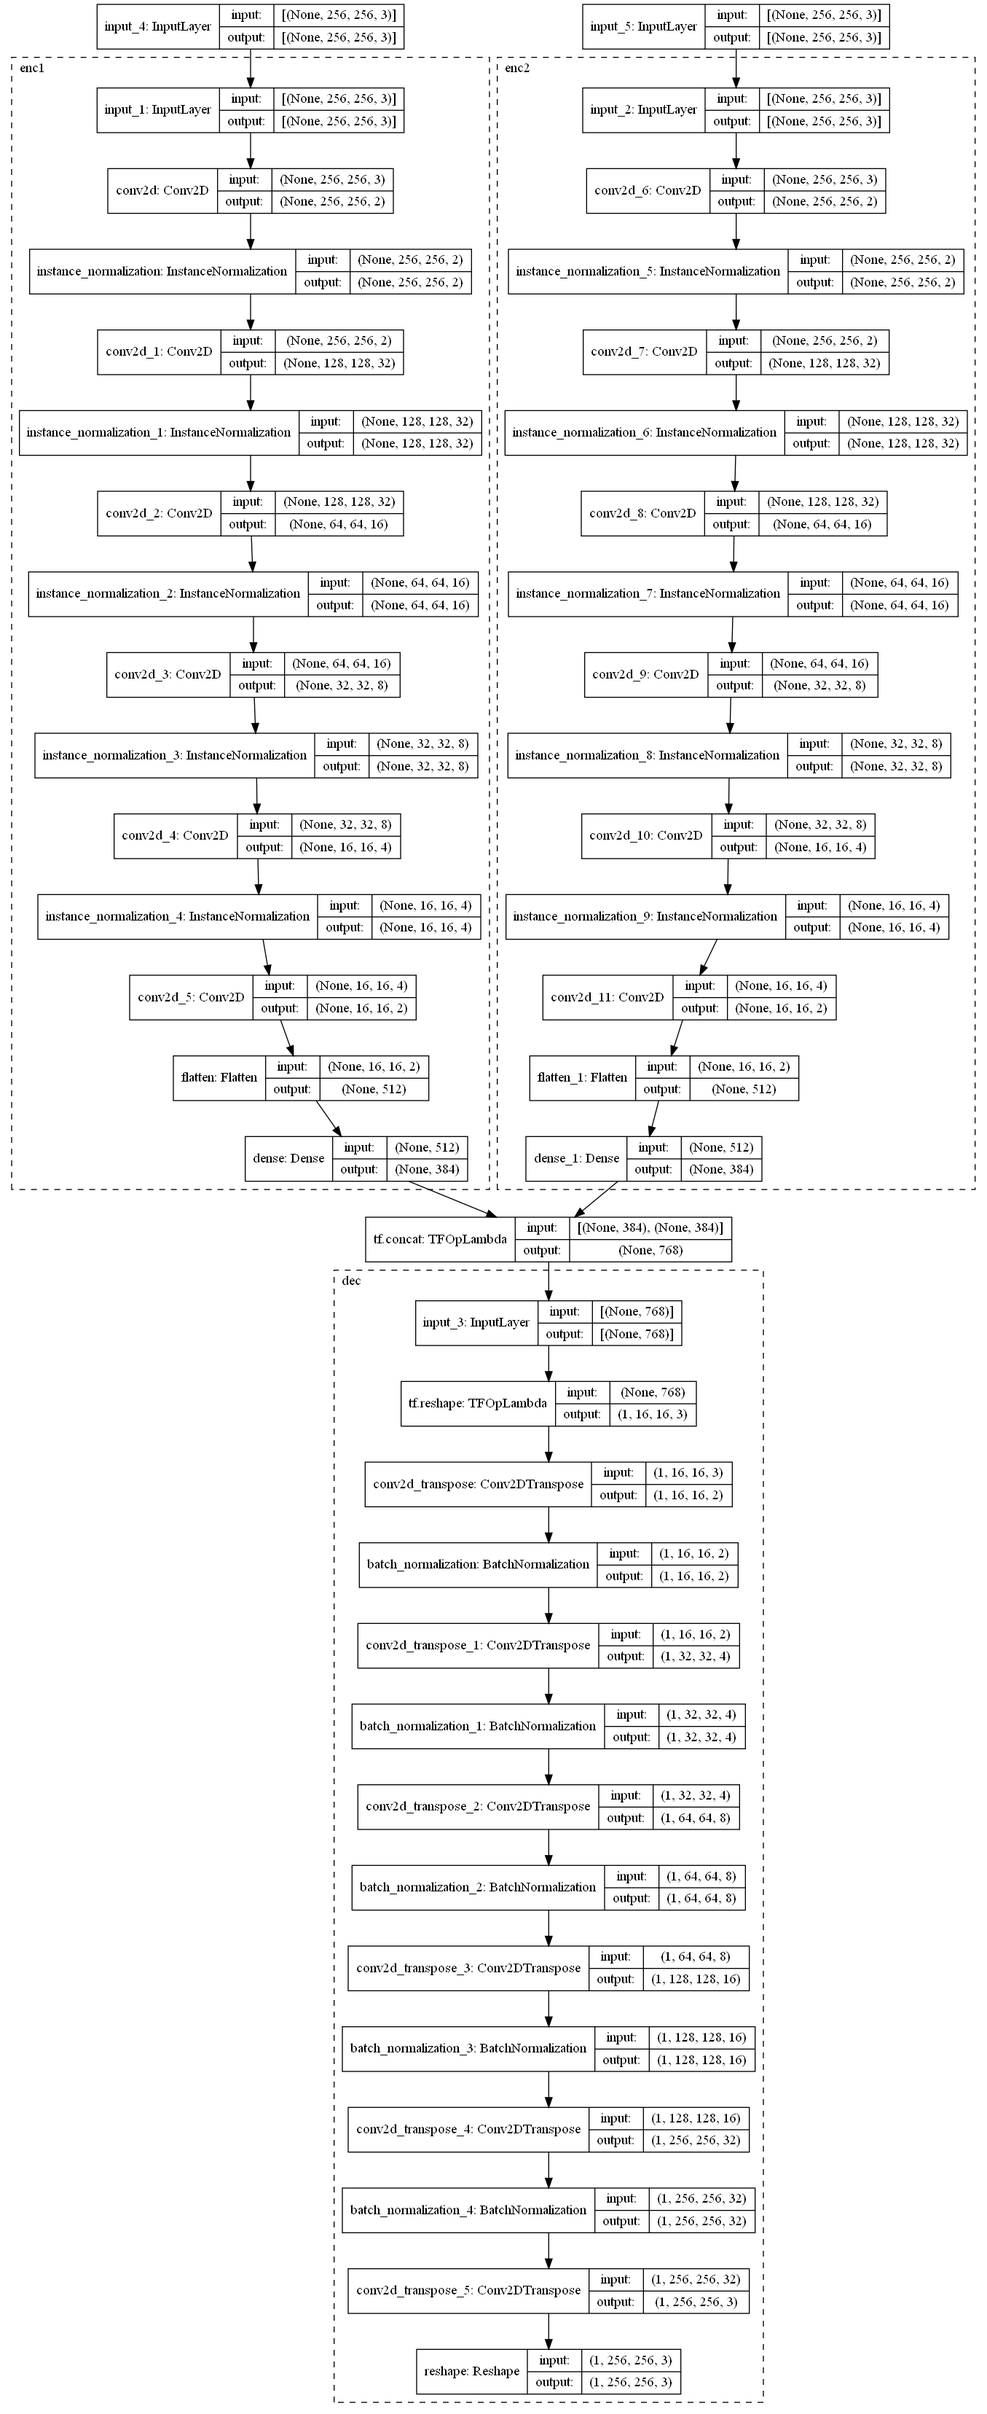
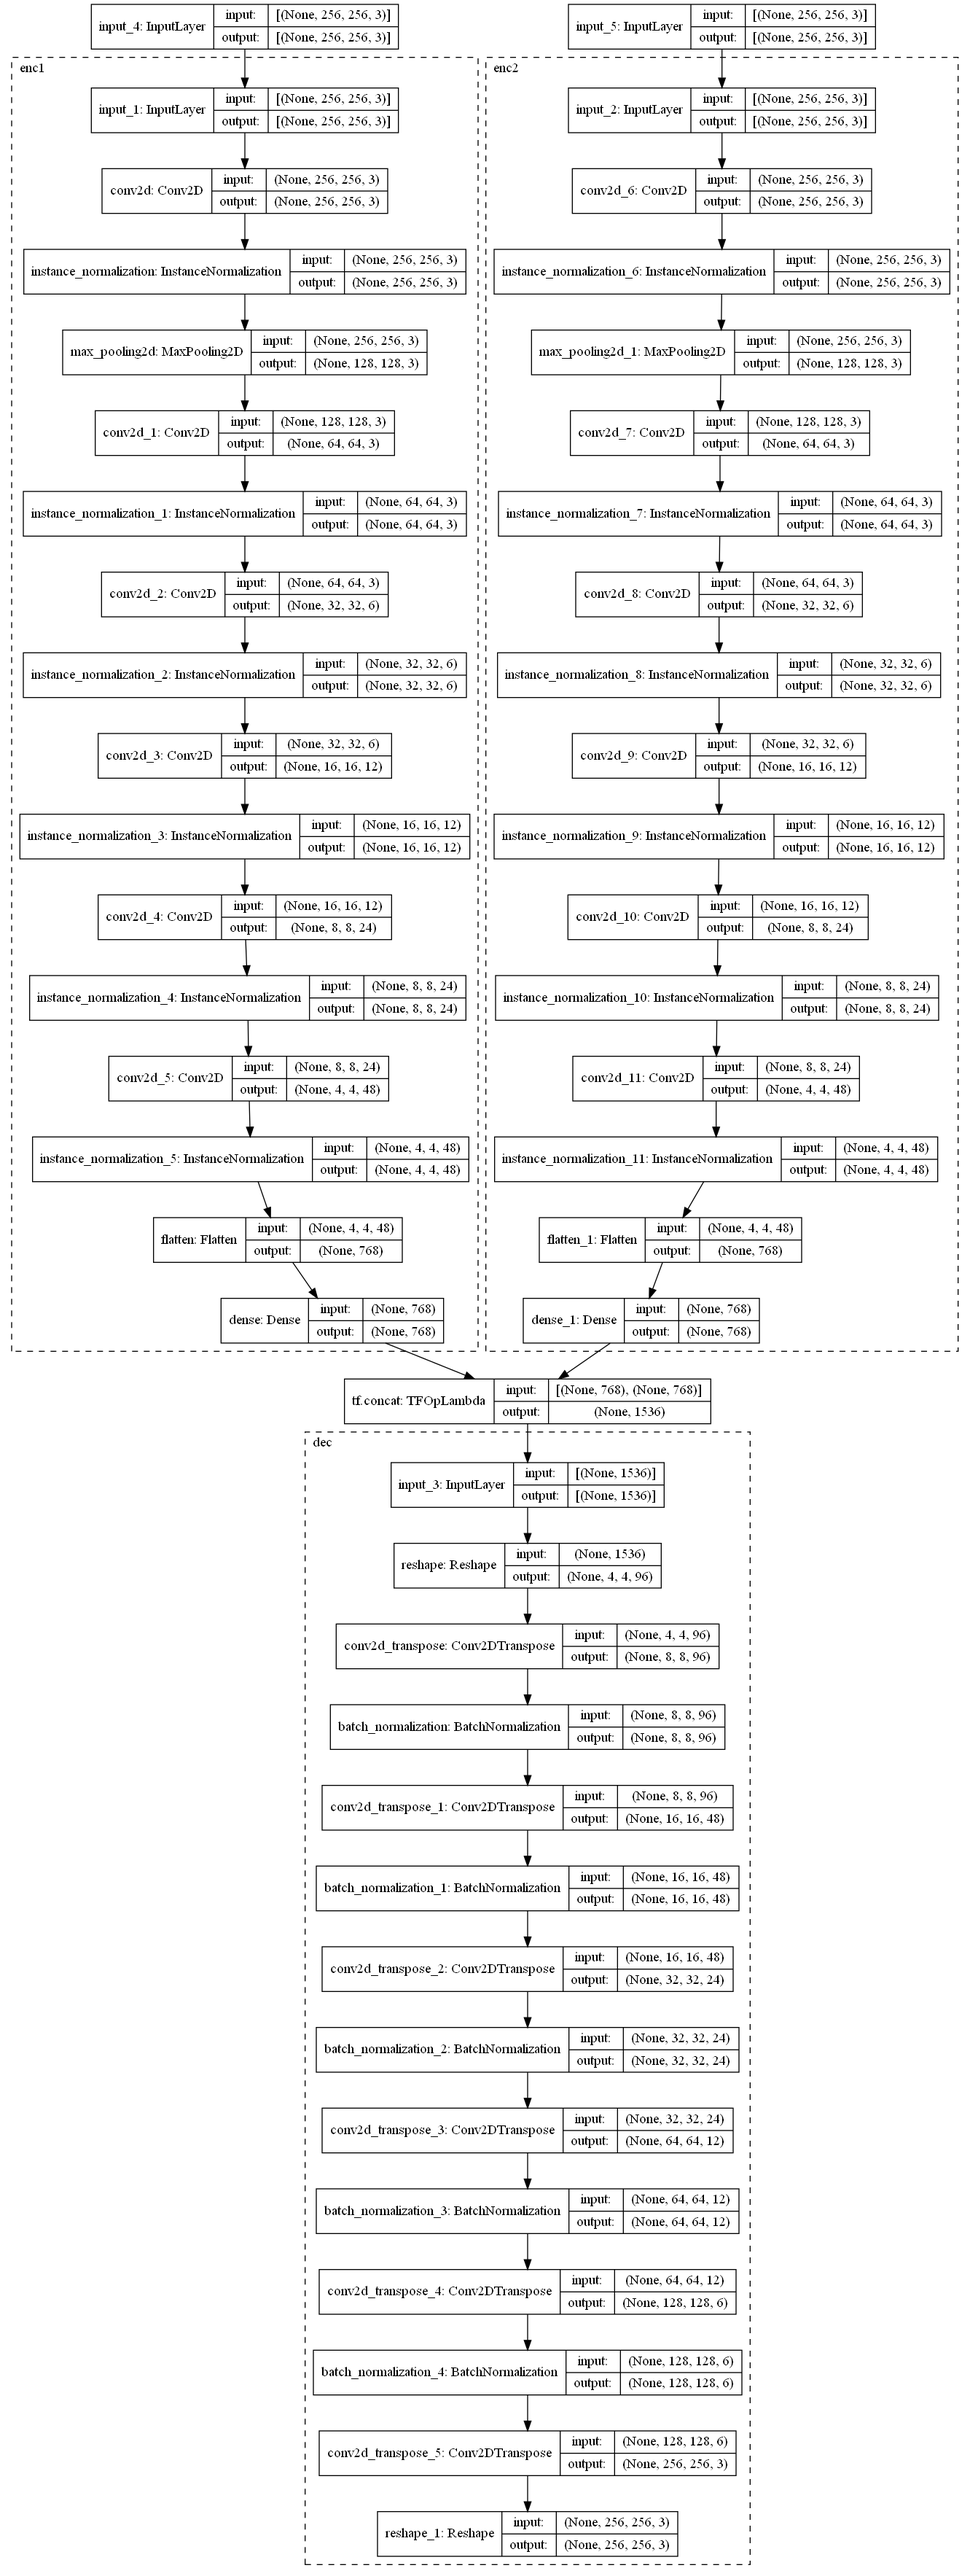
Working data pipeline

Changed region(s): [[0.0, 0.0, 0.9857, 0.9952], [0.0308, 0.1866, 0.0616, 0.2177], [0.0, 0.1555, 0.0308, 0.1866]]

diff --git a/Model.py b/Model.py
@@ -20,10 +20,11 @@ set_session(sess)
 
 reconstruction_learning_rate = 0.4
 num_epochs = 35
-num_filters = 2
-batch_size = 2
+num_filters = 3
+batch_size = 4
 learning_rate = 5e-2
 optimizer = tf.keras.optimizers.Adamax(learning_rate=learning_rate)
+cross_entropy = tf.keras.losses.BinaryCrossentropy(from_logits=True)
 
 
 def encoder():
@@ -45,16 +46,17 @@ def enc(name):
 
     x = tf.keras.layers.Conv2D(num_filters, kernel_size=(3, 3), strides=(1, 1), padding='same', activation='relu')(inp)
     x = tfa.layers.InstanceNormalization()(x)
-    #x = tf.keras.layers.MaxPool2D((2, 2))(x)
-    x = conv2D(num_filters*16, (3, 3), strides=(2, 2), padding='same', activation='relu')(x)
+    x = tf.keras.layers.MaxPool2D((2, 2))(x)
+    x = conv2D(num_filters, kernel_size=(3, 3), strides=(2, 2), padding='same', activation='relu')(x)
     x = normalize()(x)
-    x = conv2D(num_filters*8, (3, 3), strides=(2, 2), padding='same', activation='relu')(x)
+    x = conv2D(num_filters*2, kernel_size=(3, 3), strides=(2, 2), padding='same', activation='relu')(x)
     x = normalize()(x)
-    x = conv2D(num_filters*4, (3, 3), strides=(2, 2), padding='same', activation='relu')(x)
+    x = conv2D(num_filters*4, kernel_size=(3, 3), strides=(2, 2), padding='same', activation='relu')(x)
     x = normalize()(x)
-    x = conv2D(num_filters*2, (3, 3), strides=(2, 2), padding='same', activation='relu')(x)
+    x = conv2D(num_filters*8, kernel_size=(3, 3), strides=(2, 2), padding='same', activation='relu')(x)
     x = normalize()(x)
-    x = tf.keras.layers.Conv2D(num_filters, kernel_size=(3, 3), strides=(1, 1), padding='same', activation='relu')(x)
+    x = conv2D(num_filters*16, kernel_size=(3, 3), strides=(2, 2), padding='same', activation='relu')(x)
+    x = normalize()(x)
 
     '''
     ### Layer 2 ###
@@ -67,7 +69,7 @@ def enc(name):
     '''
     ### Latent Space ###
     x = tf.keras.layers.Flatten()(x)
-    w = tf.keras.layers.Dense(16*16*3/2, activation='relu')(x)
+    w = tf.keras.layers.Dense(32*4*4*num_filters/2, activation='relu')(x)
     #x = z#tf.keras.layers.Dense(1, activation='sigmoid')(z)
 
     model = tf.keras.models.Model(inputs=inp, outputs=w, name=name)
@@ -77,21 +79,21 @@ def enc(name):
 def dec(name):
     conv2DT = tf.keras.layers.Conv2DTranspose
     normalize = tf.keras.layers.BatchNormalization
-    inp = tf.keras.Input(shape=(16*16*3))
-    w = tf.reshape(inp, shape=(1, 16, 16, 3))
+    inp = tf.keras.Input(shape=(32*4*4*num_filters))
+    w = tf.keras.layers.Reshape((4, 4, 32 * num_filters))(inp)
 
     ### ????? ###
-    x = conv2DT(num_filters, (3, 3), strides=(1, 1), padding='same', activation='relu')(w)
-    w = normalize()(x)
-    x = conv2DT(num_filters*2, (3, 3), strides=(2, 2), padding='same', activation='relu')(w)
-    w = normalize()(x)
-    x = conv2DT(num_filters*4, (3, 3), strides=(2, 2), padding='same', activation='relu')(w)
-    w = normalize()(x)
-    x = conv2DT(num_filters*8, (3, 3), strides=(2, 2), padding='same', activation='relu')(w)
+    x = conv2DT(num_filters*32, (3, 3), strides=(2, 2), padding='same', activation='relu')(w)
     w = normalize()(x)
     x = conv2DT(num_filters*16, (3, 3), strides=(2, 2), padding='same', activation='relu')(w)
     w = normalize()(x)
-    x = conv2DT(3, (3, 3), strides=(1, 1), padding='same', activation='relu')(w)
+    x = conv2DT(num_filters*8, (3, 3), strides=(2, 2), padding='same', activation='relu')(w)
+    w = normalize()(x)
+    x = conv2DT(num_filters*4, (3, 3), strides=(2, 2), padding='same', activation='relu')(w)
+    w = normalize()(x)
+    x = conv2DT(num_filters*2, (3, 3), strides=(2, 2), padding='same', activation='relu')(w)
+    w = normalize()(x)
+    x = conv2DT(num_filters, (3, 3), strides=(2, 2), padding='same', activation='relu')(w)
     #w = normalize()(x)
     w = tf.keras.layers.Reshape(target_shape=(256, 256, 3))(x)
 
@@ -157,9 +159,9 @@ def load_image(image_path):
     return input_arr
 
 
-def create_dataset(image_paths):
+def create_dataset(image_paths=None):
     dgen_params = dict(
-        rescale= 1. / 255,
+        rescale=1./255,
         shear_range=0.0,
         zoom_range=0.0,
         horizontal_flip=True,
@@ -168,31 +170,29 @@ def create_dataset(image_paths):
     gen_params = dict(
         batch_size=batch_size,
         color_mode='rgb',
-        class_mode='categorical',
+        class_mode=None
     )
     image_dgen = tf.keras.preprocessing.image.ImageDataGenerator(**dgen_params)
     image_gen = image_dgen.flow_from_directory('D:\Storage\Technical\Linux Resources\Images\ArtGen',**gen_params)
-    image_dataset = tf.data.Dataset.from_generator(lambda: image_gen, output_signature=tf.TensorSpec(shape=(256,256,3), dtype=tf.float32))
-    print(image_dataset)
-    return image_dataset
+    image_dataset = tf.data.Dataset.from_generator(lambda: image_gen, output_signature=tf.TensorSpec(shape=(None, 256, 256, 3), dtype=tf.float32))
+    return image_dataset, len(image_gen)
 
 
 def test_model(model, source, style):
-    _, _, new_img = model(np.expand_dims(np.array(tf.keras.preprocessing.image.img_to_array(source) / 255.0), axis=0),
-                          np.expand_dims(np.array(tf.keras.preprocessing.image.img_to_array(style) / 255.0), axis=0))
+    _, _, new_img = model(source, style)
 
     plt.figure(figsize=(6, 6))
 
     plt.subplot(3, 2, 1)
-    plt.imshow(source)
+    plt.imshow(source[0])
     plt.grid(False)
 
     plt.subplot(3, 2, 2)
-    plt.imshow(style)
+    plt.imshow(style[0])
     plt.grid(False)
 
     plt.subplot(3, 2, 3)
-    plt.imshow(Image.fromarray(np.squeeze(np.array(new_img * 127.5 + 127.5), axis=0), 'RGB'))
+    plt.imshow(Image.fromarray(np.array(new_img[0] * 127.5 + 127.5), 'RGB'))
     plt.grid(False)
 
     plt.subplot(3, 2, 4)
@@ -250,7 +250,7 @@ class AE_A(tf.keras.Model):
         self.encoder2 = enc("enc2")
         self.decoder = dec("dec")
         self.compile(optimizer=optimizer)
-        self.loss=[]
+        self.loss = []
 
     def save(self, fname):
         dir = os.getcwd() + '\\'
@@ -285,53 +285,40 @@ class AE_A(tf.keras.Model):
             print("File load failed.")
 
         #image_paths = read_images()
-        image_dataset = create_dataset('')
+        image_dataset, dataset_size = create_dataset()
+        dataset_size = dataset_size-1
+        print("Dataset size is", dataset_size)
+        print("Total number of images is", dataset_size*batch_size)
 
         for i in range(num_epochs):
-
-            print("\nStarting epoch {}/{}".format(i + 1, num_epochs))
+            print("Starting epoch {}/{}".format(i, num_epochs))
             start = time.time()
-            print(image_dataset.take(50))
-            for source, style in zip(image_dataset.take(10), image_dataset.take(10)):
-                print("hello")
-                hold = self.train_step(np.array(source), np.array(style), optimizer)
-                test_model(self, np.array(source), np.array(style))
-            self.loss+=[hold]
-
-
-            '''for idx in range(0, len(image_paths), 2):
-                # First grab a batch of training data and convert the input images to tensors
-                for image in range(0, len(image_paths[idx])):
-                    try:
-                        source = load_image(image_paths[idx][image])
-                        style = load_image(image_paths[idx+1][image])
-                        source = tf.convert_to_tensor(source, dtype=tf.float32)
-                        style = tf.convert_to_tensor(style, dtype=tf.float32)
-                        hold = self.train_step(source, style, optimizer)
-                    except Exception:
-                        break
-                if idx % 100 == 0:
-                    print(idx)
-                    self.loss+=[hold]'''
-
+            batch_on = 0
+            for source, style in zip(image_dataset.take(300), image_dataset.take(300)):
+                try:
+                    hold = self.train_step(source, style, optimizer)
+                    if batch_on % 50 == 0:
+                        print("Beginning batch #" + str(batch_on), 'of size', batch_size)
+                        self.loss += [hold]
+                except Exception:
+                    print("Batch #", batch_on, "failed. Continuing with next batch.")
+                batch_on += 1
             duration = time.time()-start
             print(int(duration/60), "minutes &", int(duration % 60), "seconds, for epoch", i+1)
-            if(i % 5 == 0):
+            if i % 5 == 0:
                 test_model(self, source, style)
+            print('\n')
+            image_dataset, _ = create_dataset()
             self.save("test")
 
     def train_step(self, source, style, optimizer):
-        cross_entropy = tf.keras.losses.BinaryCrossentropy(from_logits=True)
-        source = np.array(source)/255.0
-        style = np.array(source)/255.0
-
         with tf.GradientTape() as tape:
             encoder2 = self.encoder2
             _, _, prediction = self(source, style)
             _, _, source_reconstruction = self(source, source)
-            _, _, style_reconstruction = self(style, style)
-            loss = (0.2 * cross_entropy(source, prediction) +
-                    0.8 * cross_entropy(encoder2(style), encoder2(prediction)) +
+            # _, _, style_reconstruction = self(style, style)
+            loss = tf.abs(0.8 * cross_entropy(source, prediction) +
+                    0.2 * cross_entropy(encoder2(style), encoder2(prediction)) +
                     reconstruction_learning_rate * cross_entropy(source, source_reconstruction)) * learning_rate
 
         grads = tape.gradient(loss, model.trainable_variables)
@@ -372,10 +359,9 @@ reconstructed_model.fit(test_input, test_target)
 model = AE_A()
 tf.keras.utils.plot_model(model.build_graph(), "test.png", show_shapes=True, expand_nested=True)
 model.train_model('test')
-#model.load('test')
-images = read_images()
-print(images[0][0])
-source = tf.keras.preprocessing.image.load_img(images[0][0])
-style = tf.keras.preprocessing.image.load_img(images[1][0])
+model.load('test')
+image_dataset, _ = create_dataset()
 
-test_model(model, source, style)
+for source, style in zip(image_dataset.take(1), image_dataset.take()):
+    test_model(model, source, style)
+    break
